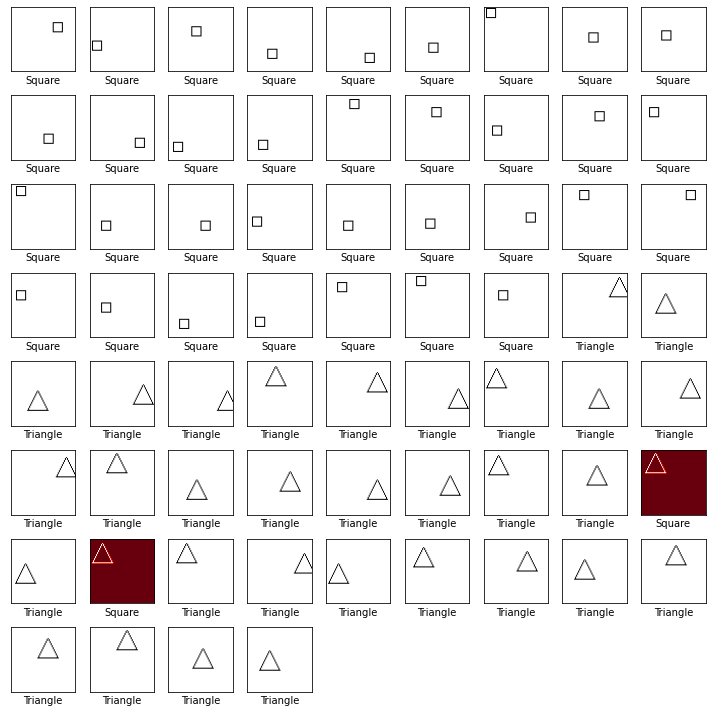
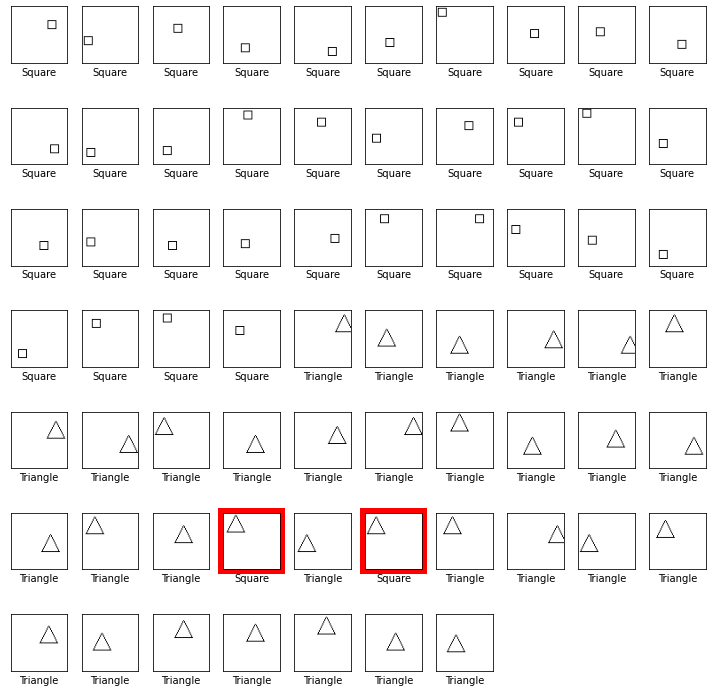
Change wrong picture to use a red border

diff --git a/_posts/2021-04-10-machine-learning-but-not-understanding.md b/_posts/2021-04-10-machine-learning-but-not-understanding.md
@@ -91,7 +91,7 @@ First, we ask the neural network to predict what the pictures are (more details 
 
 Our neural network classified 65 out 67 pictures correctly, for an accuracy of 97%. This is a pretty good accuracy for a relatively small neural network that can be trained quickly.
 
-Let's visualize where the neural network made the mistakes. The picture below shows the mistakes with a red background. All other pictures were classified correctly. Below each picture is the neural network's classification.
+Let's visualize where the neural network made the mistakes. The picture below shows the mistakes with a red border. All other pictures were classified correctly. Below each picture is the neural network's classification.
 
 {% maincolumn 'images/2021-04-10/output_25_0.png' ''%}
 
@@ -111,7 +111,7 @@ Using the neural network, we classify the rotated squares and calculate the accu
 
 But this time, out of 80 rotated squares, only 23 of them are classified as squares. The other 57 are classified as triangles. The accuracy is now a paltry 26%.
 
-Below are all the squares in this set and how the neural network classified them. The ones with the red(ish) background were incorrectly classified as triangles.
+Below are all the squares in this set and how the neural network classified them. The ones with the red border were incorrectly classified as triangles (there are many of them).
 
 {% maincolumn 'images/2021-04-10/output_34_0.png' ''%}
 
@@ -181,7 +181,7 @@ This is how the squares look like in the darker environment.
 
 When we ask the neural network to classify these squares, we find out that the the performance is now abysmal. The accuracy is 0%. All squares are misclassified as triangles.
 
-To confirm, we can visualize the predictions. The wrong predictions have an orange(ish) background (all of them are wrong, so this is a sea of orange).
+To confirm, we can visualize the predictions. The wrong predictions have a red frame around them (all of them are wrong in this case).
 
 {% maincolumn 'images/2021-04-10/output_52_0.png' ''%}
 
